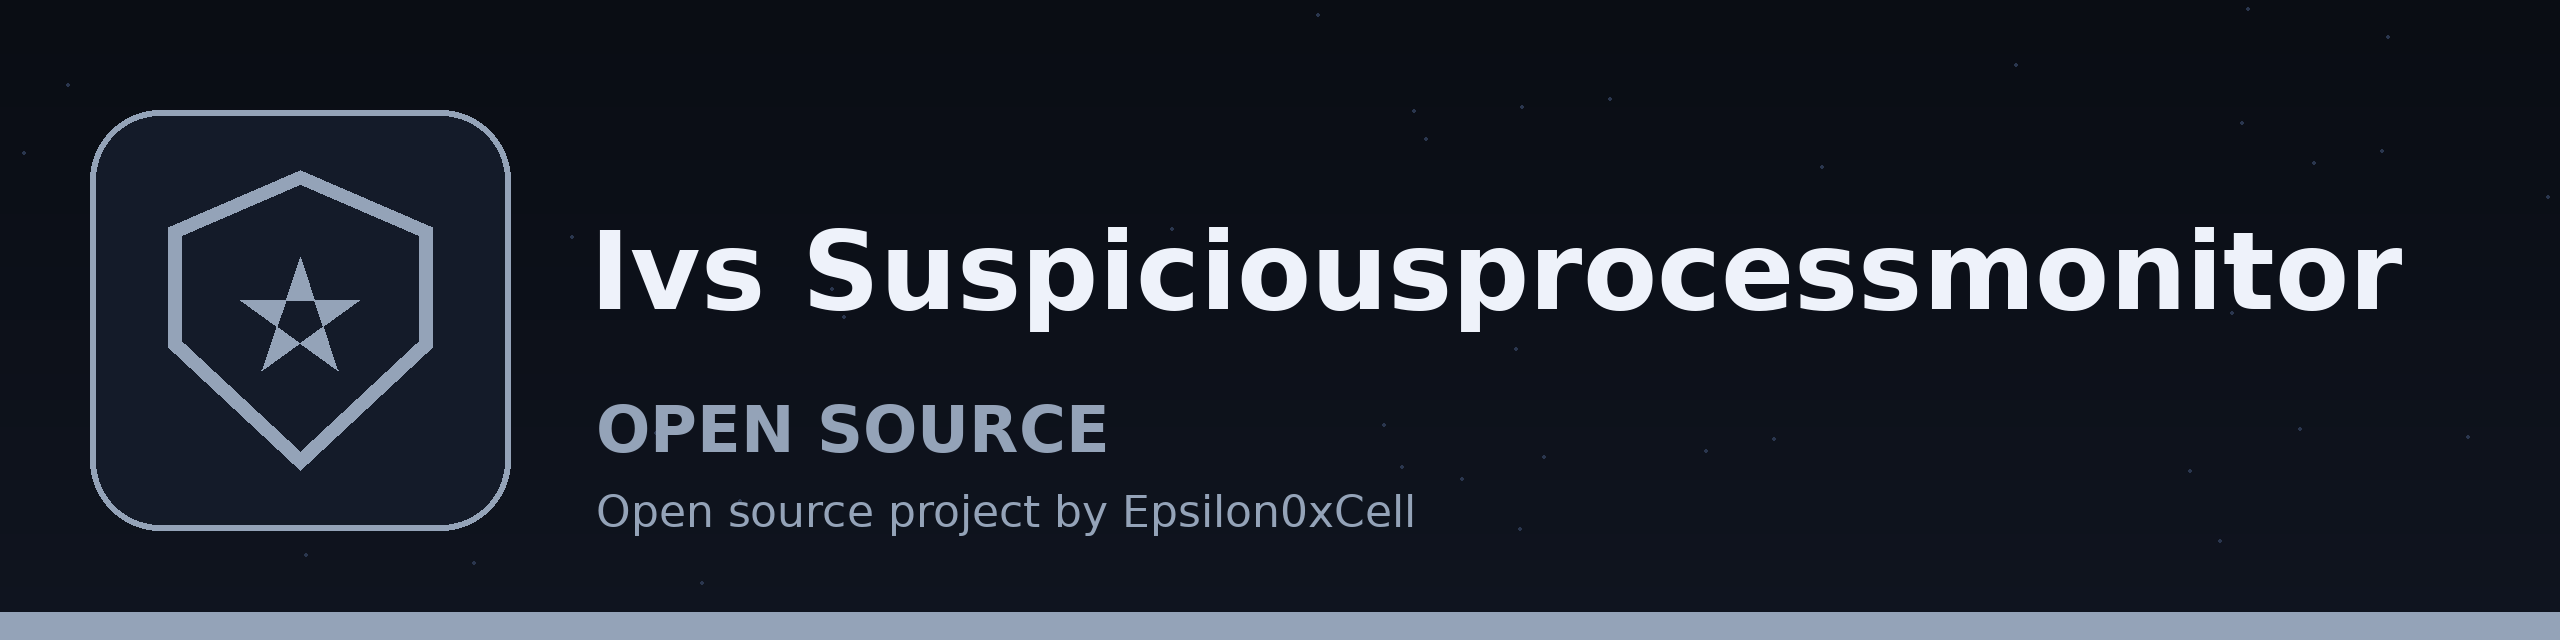
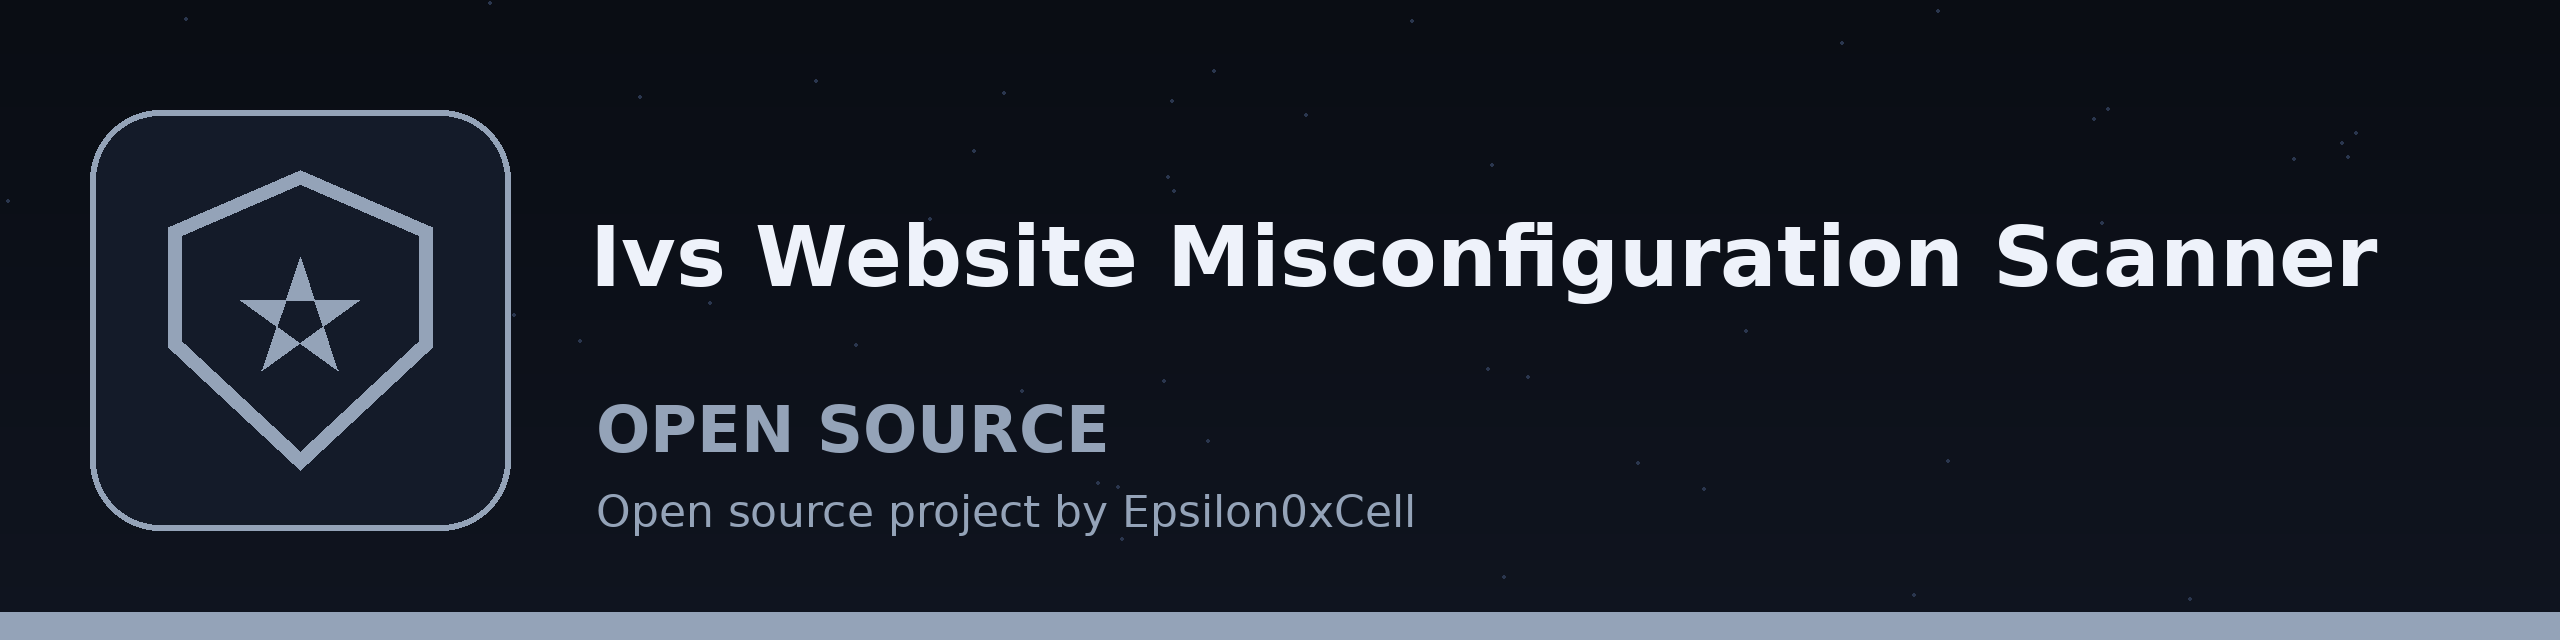
Update branding and README title for rename to ivs-website-misconfiguration-scanner

Changed region(s): [[0.2188, 0.3438, 0.9375, 0.5312]]

diff --git a/README.md b/README.md
@@ -1,13 +1,13 @@
 ![Banner](banner.png)
 
-# ivs-SuspiciousProcessMonitor
+# ivs-website-misconfiguration-scanner
 A command-line tool that monitors running processes on a host and flags processes with unusual characteristics, such as unsigned binaries, unusual network connections, or high CPU usage. Uses `psutil` library. - Focused on Simple vulnerability scanner focusing on common misconfigurations in web infrastructure. Checks for exposed `.env` files, common admin panels, and outdated software versions by crawling a target website and analyzing responses.
 
 ## Install
-`git clone https://github.com/ShadowGuardAI/ivs-suspiciousprocessmonitor`
+`git clone https://github.com/ShadowGuardAI/ivs-website-misconfiguration-scanner`
 
 ## Usage
-`./ivs-suspiciousprocessmonitor [params]`
+`./ivs-website-misconfiguration-scanner [params]`
 
 ## Parameters
 - `-h`: Show help message and exit
